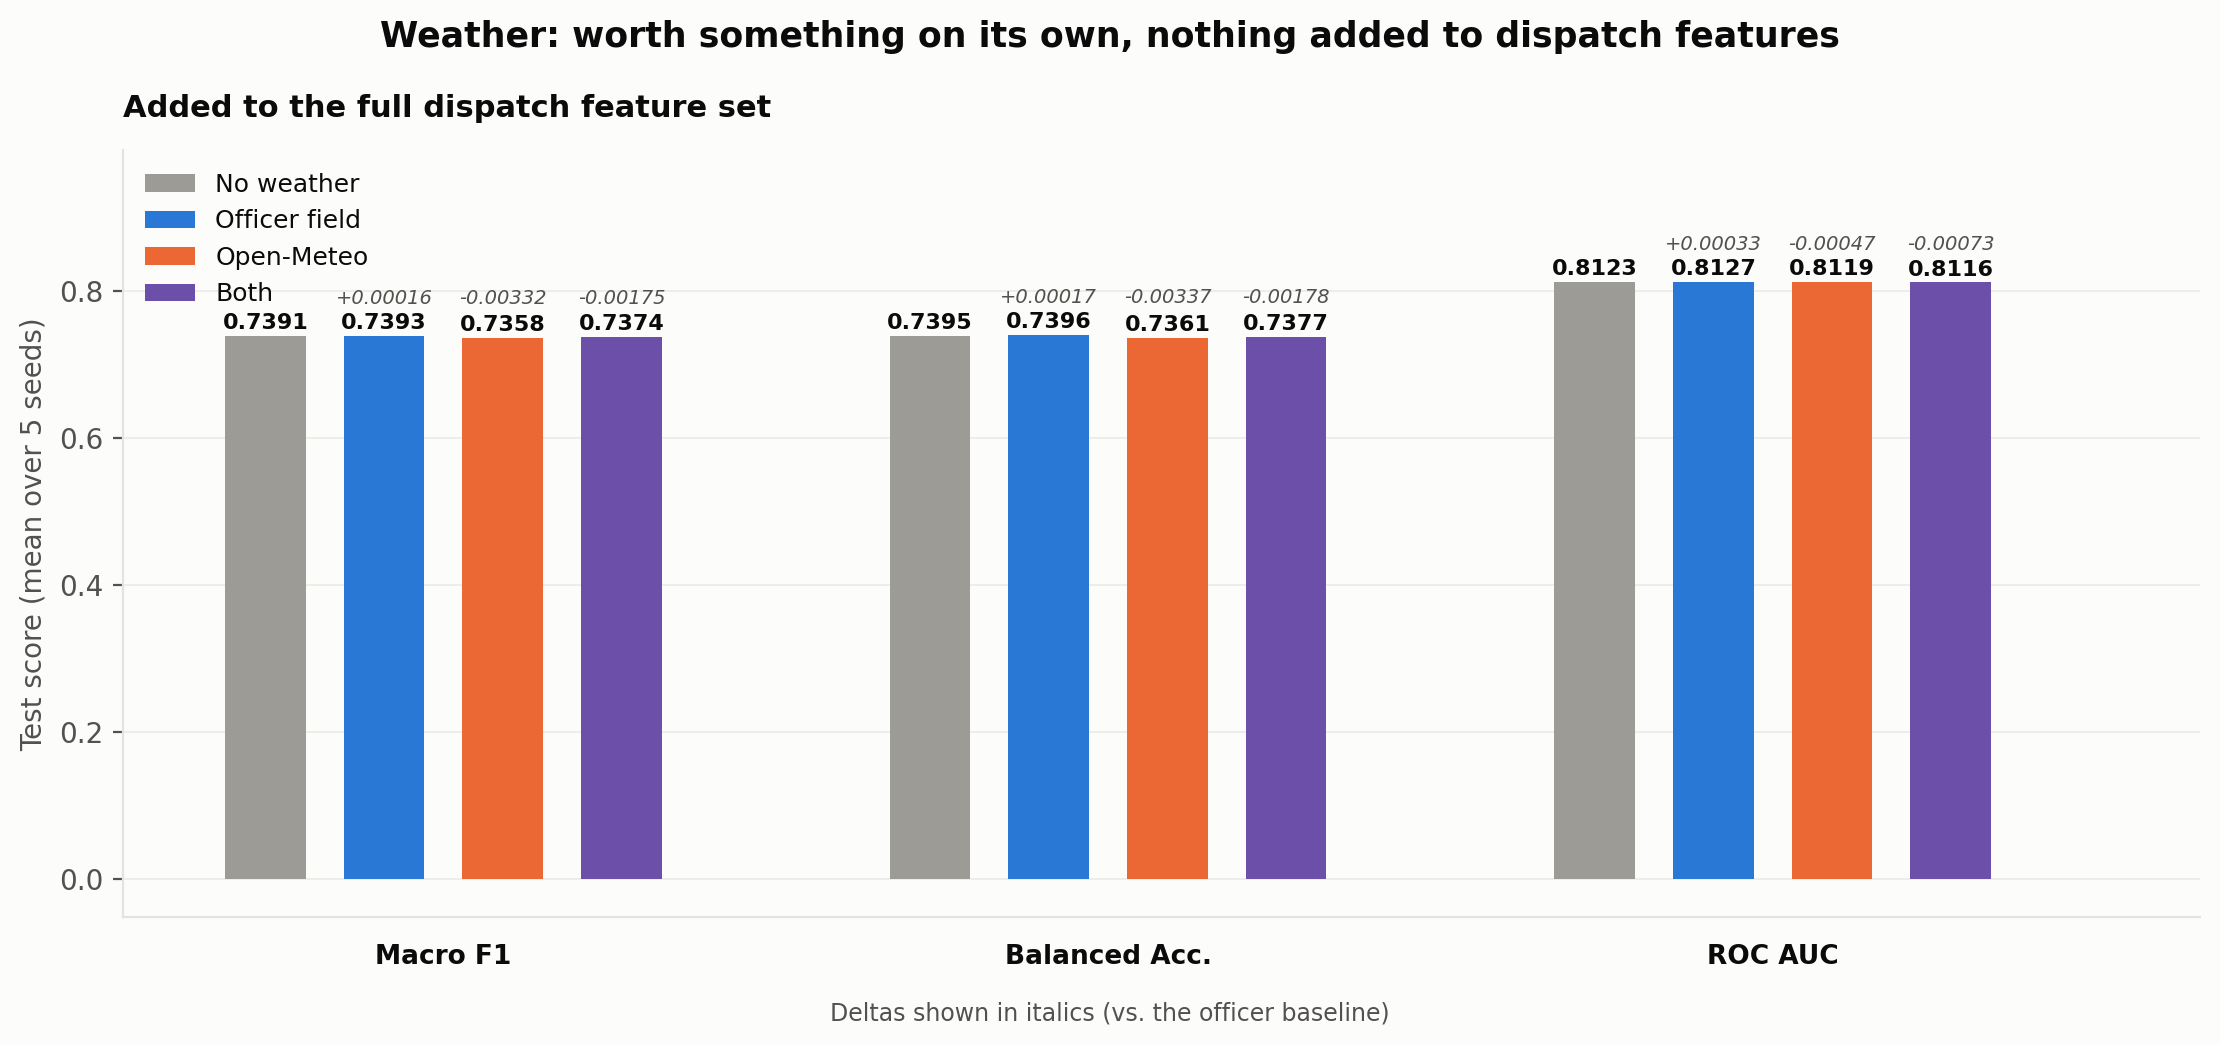
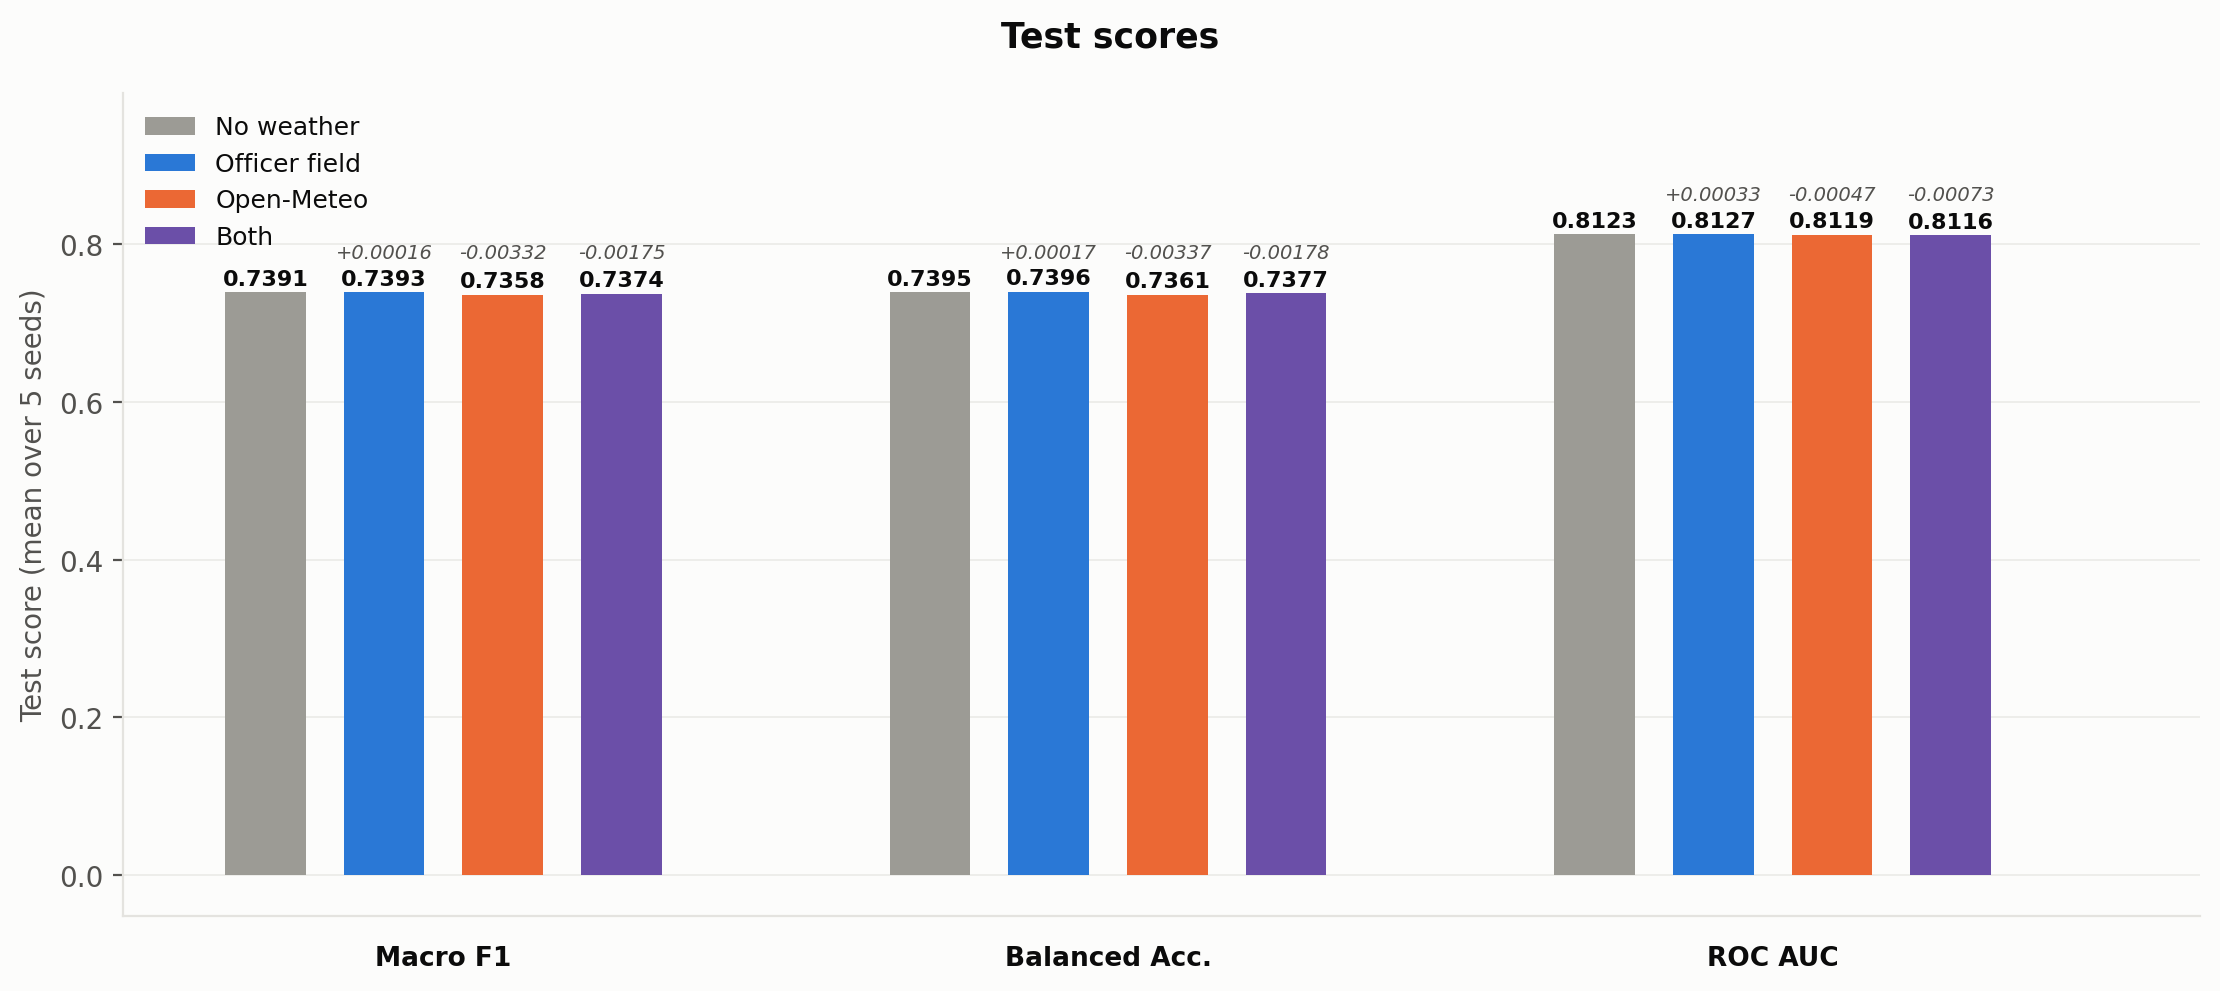
Adjust plot titles and usage in officer_vs_data
Use python3 in the example invocation and simplify the figure labeling for the officer_vs_data experiment. The plot suptitle was shortened to "Test scores" and the small caption about deltas was removed; minor layout tweaks were made. The corresponding regenerated figure (docs/figures/officer_vs_data/fig4_model_deltas.png) was updated to match. These edits clarify usage and tighten the figure presentation.

diff --git a/CODE/experiments/officer_vs_data/plot_officer_vs_data.py b/CODE/experiments/officer_vs_data/plot_officer_vs_data.py
@@ -4,7 +4,7 @@
 Regenerates figures from the CSVs weather_agreement.py and weather_predictive_test.py
 already wrote, so nothing is retrained here:
 
-    python CODE/experiments/officer_vs_data/plot_officer_vs_data.py
+    python3 CODE/experiments/officer_vs_data/plot_officer_vs_data.py
 
 Figures (docs/figures/officer_vs_data/):
   fig1_agreement_matrix.png     officer category x Open-Meteo condition, row %
@@ -178,7 +178,7 @@ def fig_model_deltas(out: Path):
     ax.set_ylim(-0.052, max(vals) * 1.22)
     ax.set_xticks([])
     ax.set_ylabel("Test score (mean over 5 seeds)", fontsize=10)
-    ax.set_title("Added to the full dispatch feature set", loc="left", fontsize=11, fontweight="bold", pad=12)
+
 
     # Legend
     from matplotlib.patches import Patch
@@ -187,10 +187,8 @@ def fig_model_deltas(out: Path):
     ax.legend(handles=legend_elements, loc="upper left", frameon=False, fontsize=9)
 
     _style(ax, axis="y")
-    fig.suptitle("Weather: worth something on its own, nothing added to dispatch features",
+    fig.suptitle("Test scores",
                 fontsize=12.5, fontweight="bold", y=0.98)
-    fig.text(0.5, -0.02, "Deltas shown in italics (vs. the officer baseline)",
-            ha="center", fontsize=8.5, color=INK_2)
     fig.tight_layout()
     fig.savefig(out, bbox_inches="tight")
     plt.close(fig)
